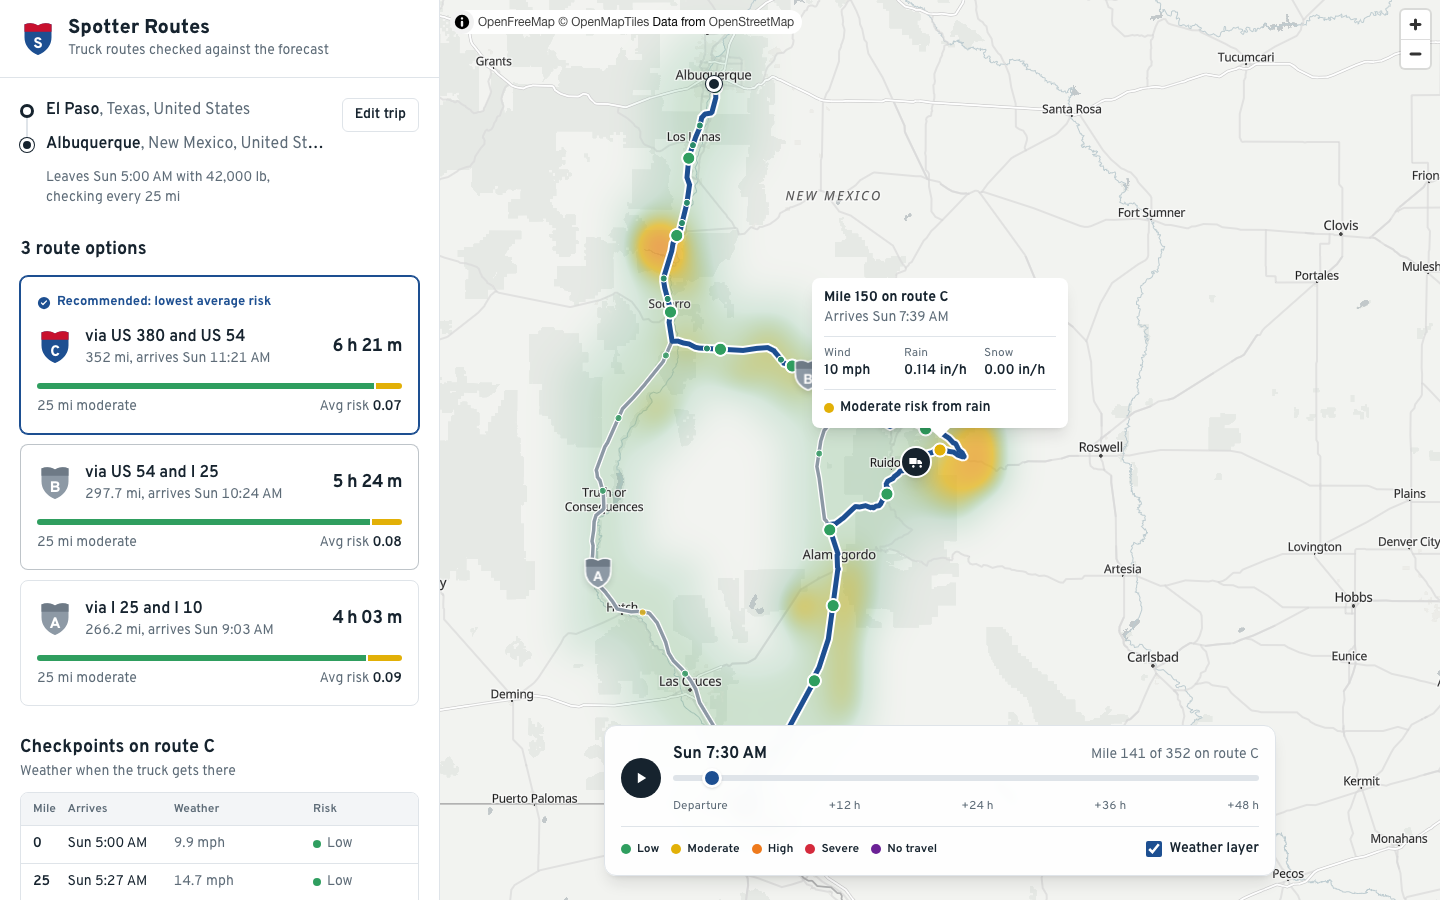
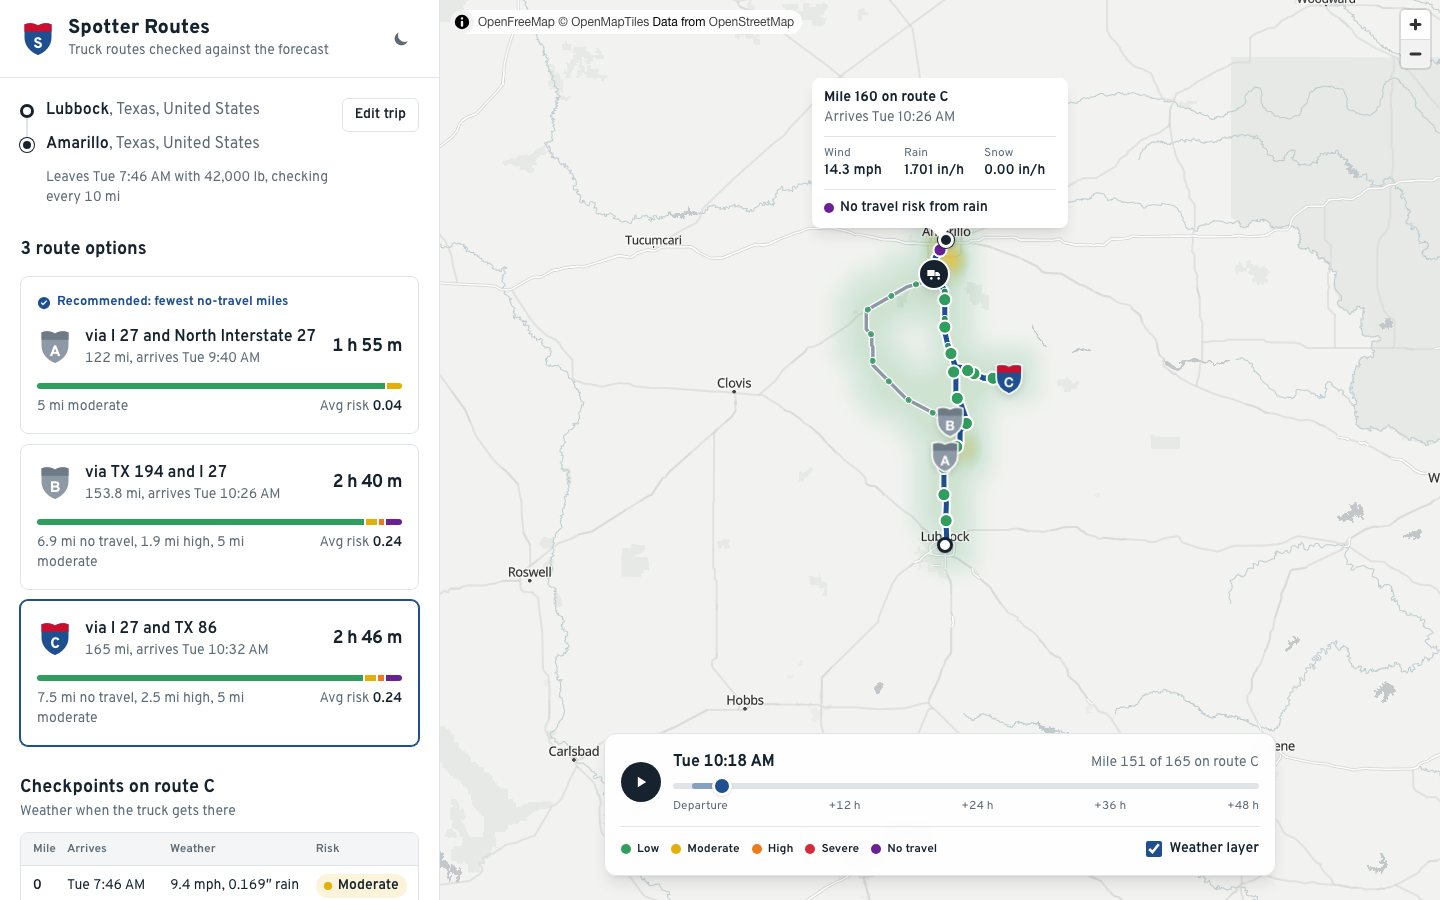
Update README screenshots and add live app link

diff --git a/README.md b/README.md
@@ -2,9 +2,12 @@
 
 Weather-aware truck routing. Enter an origin, a destination, a departure time and a load weight. The app finds three truck routes, checks the forecast for the hour the truck reaches each checkpoint, scores every route against the risk and load rules, and recommends the safest one. A heatmap with a 0–48 h slider shows the weather along the trip corridor.
 
-**Live app:** _add the URL after deploying_
+**Live app:** https://spotter-routes.onrender.com
 
-![The truck on route C reaches a moderate rain cell near Ruidoso, NM, 2.5 hours after departure](.github/screenshot.png)
+<picture>
+  <source media="(prefers-color-scheme: dark)" srcset=".github/screenshot-dark.png">
+  <img alt="Lubbock to Amarillo: two routes cross no-travel rain, so the app recommends route A" src=".github/screenshot.png">
+</picture>
 
 ## Stack
 
